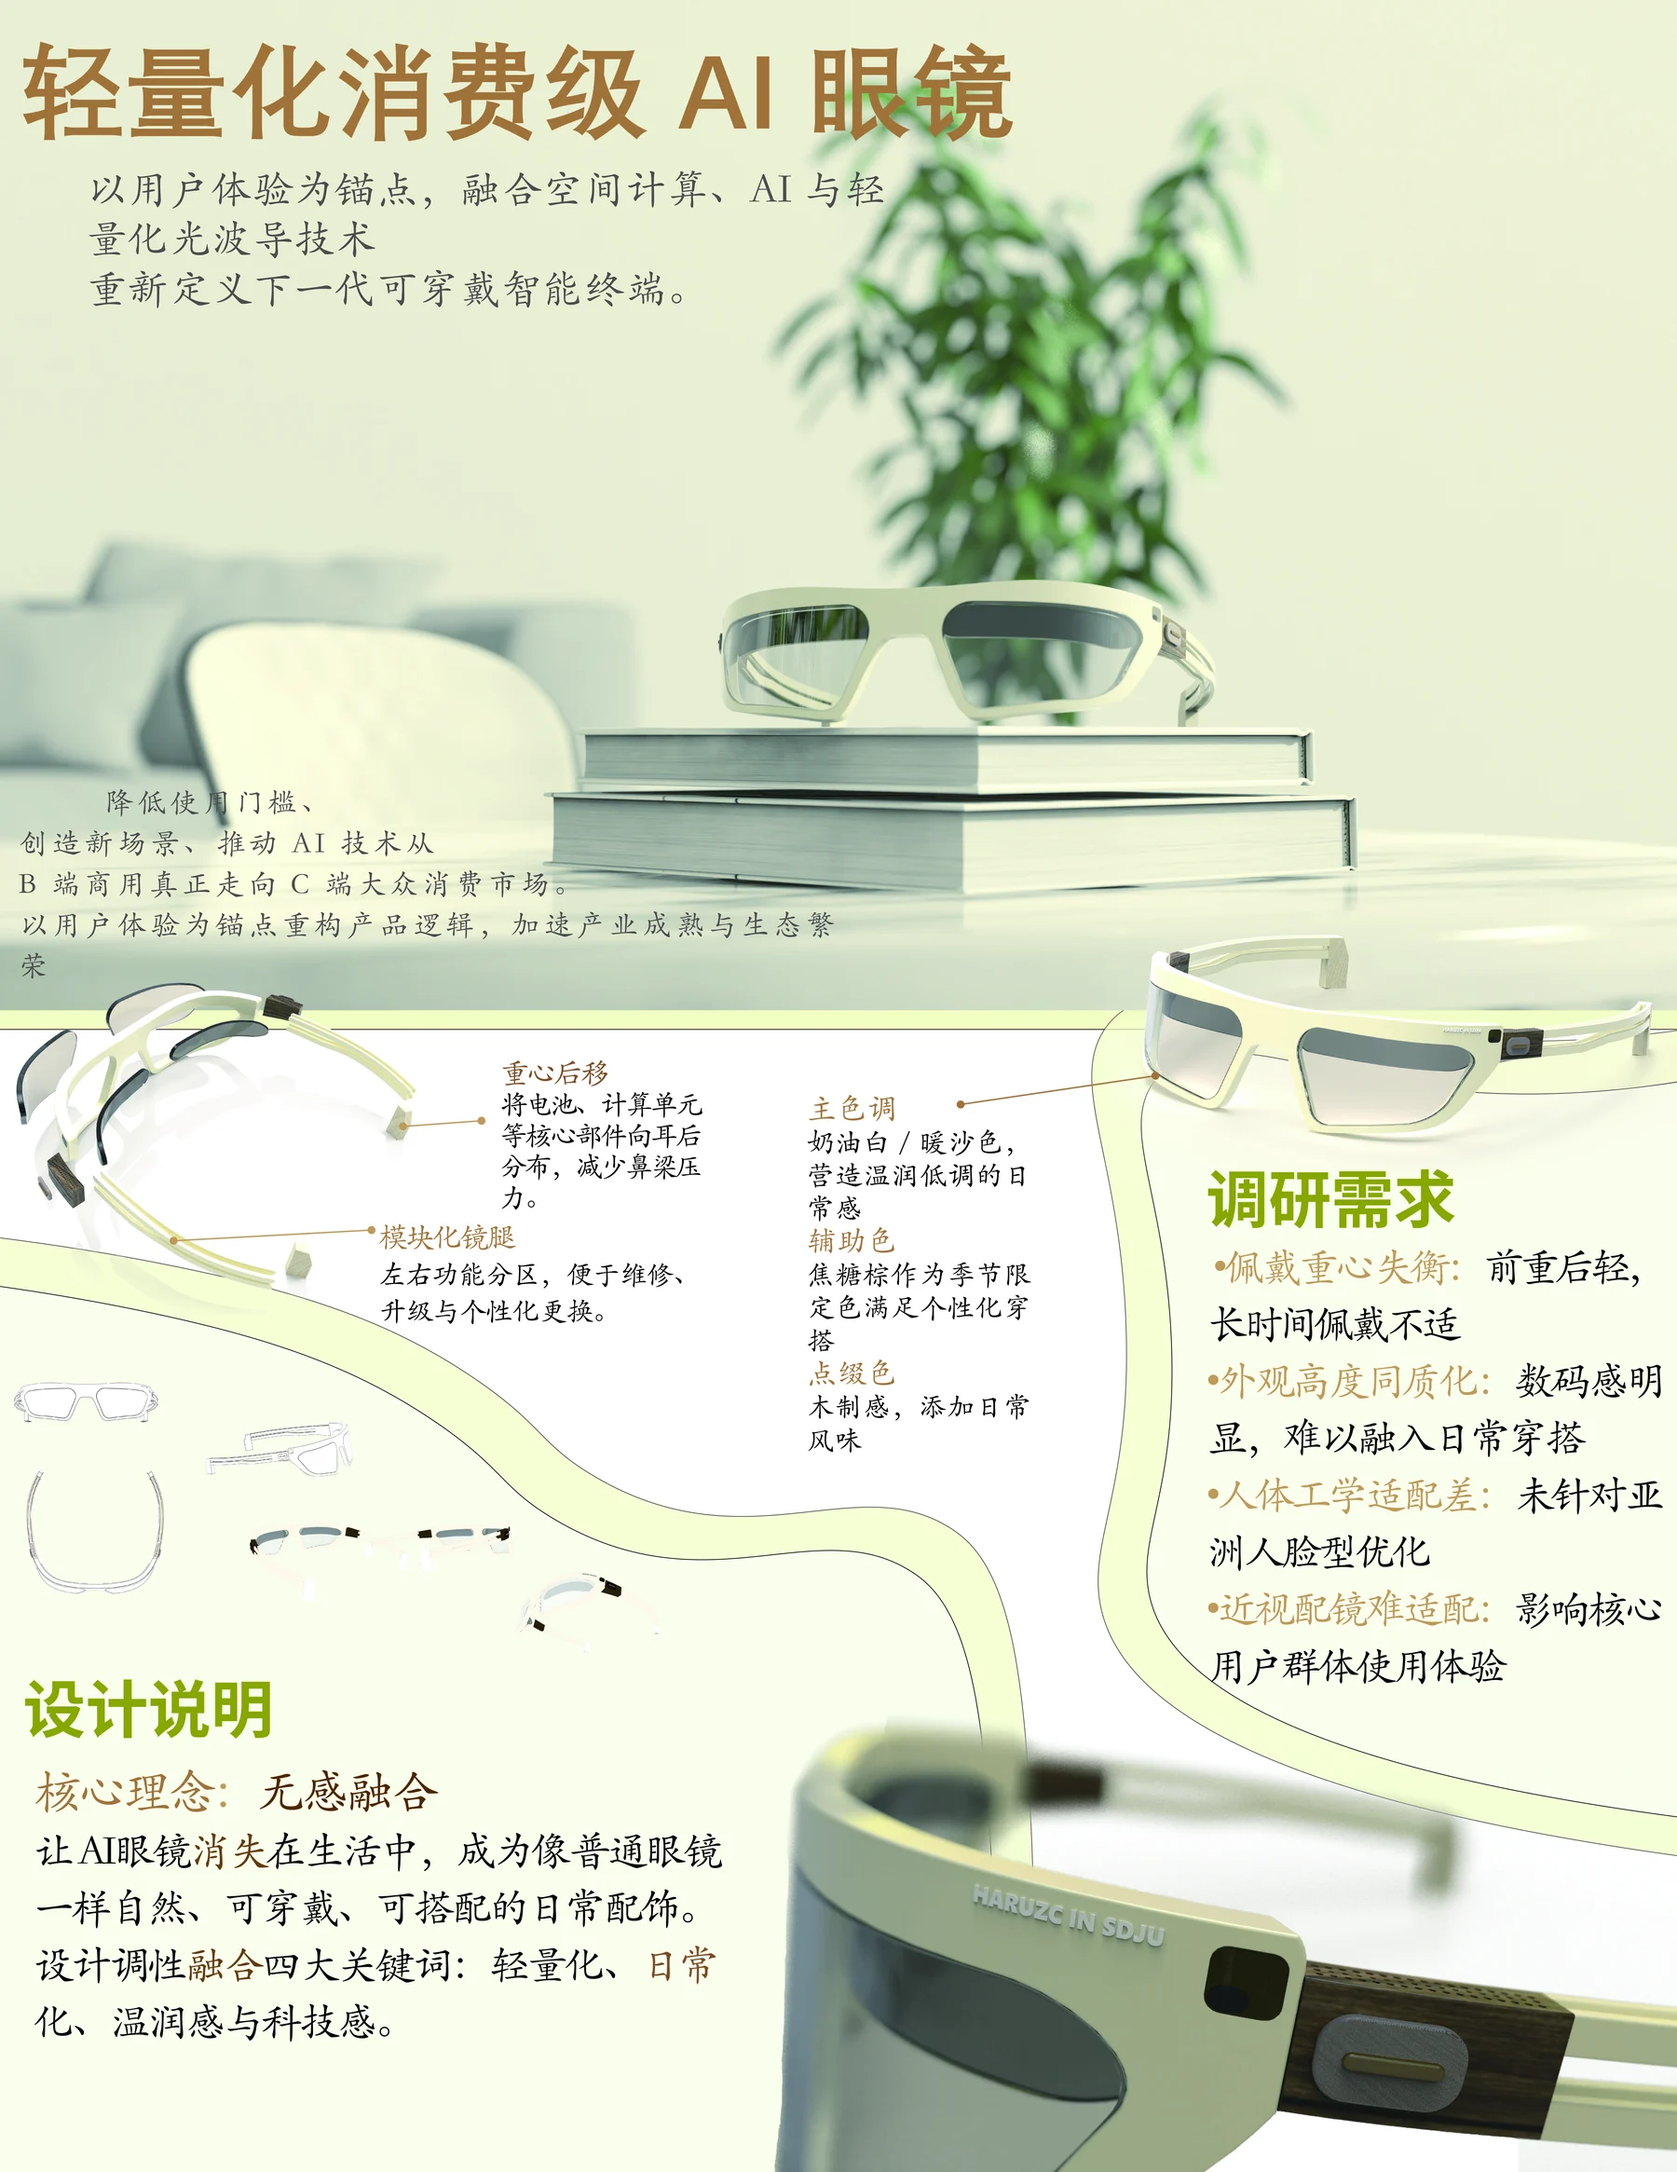
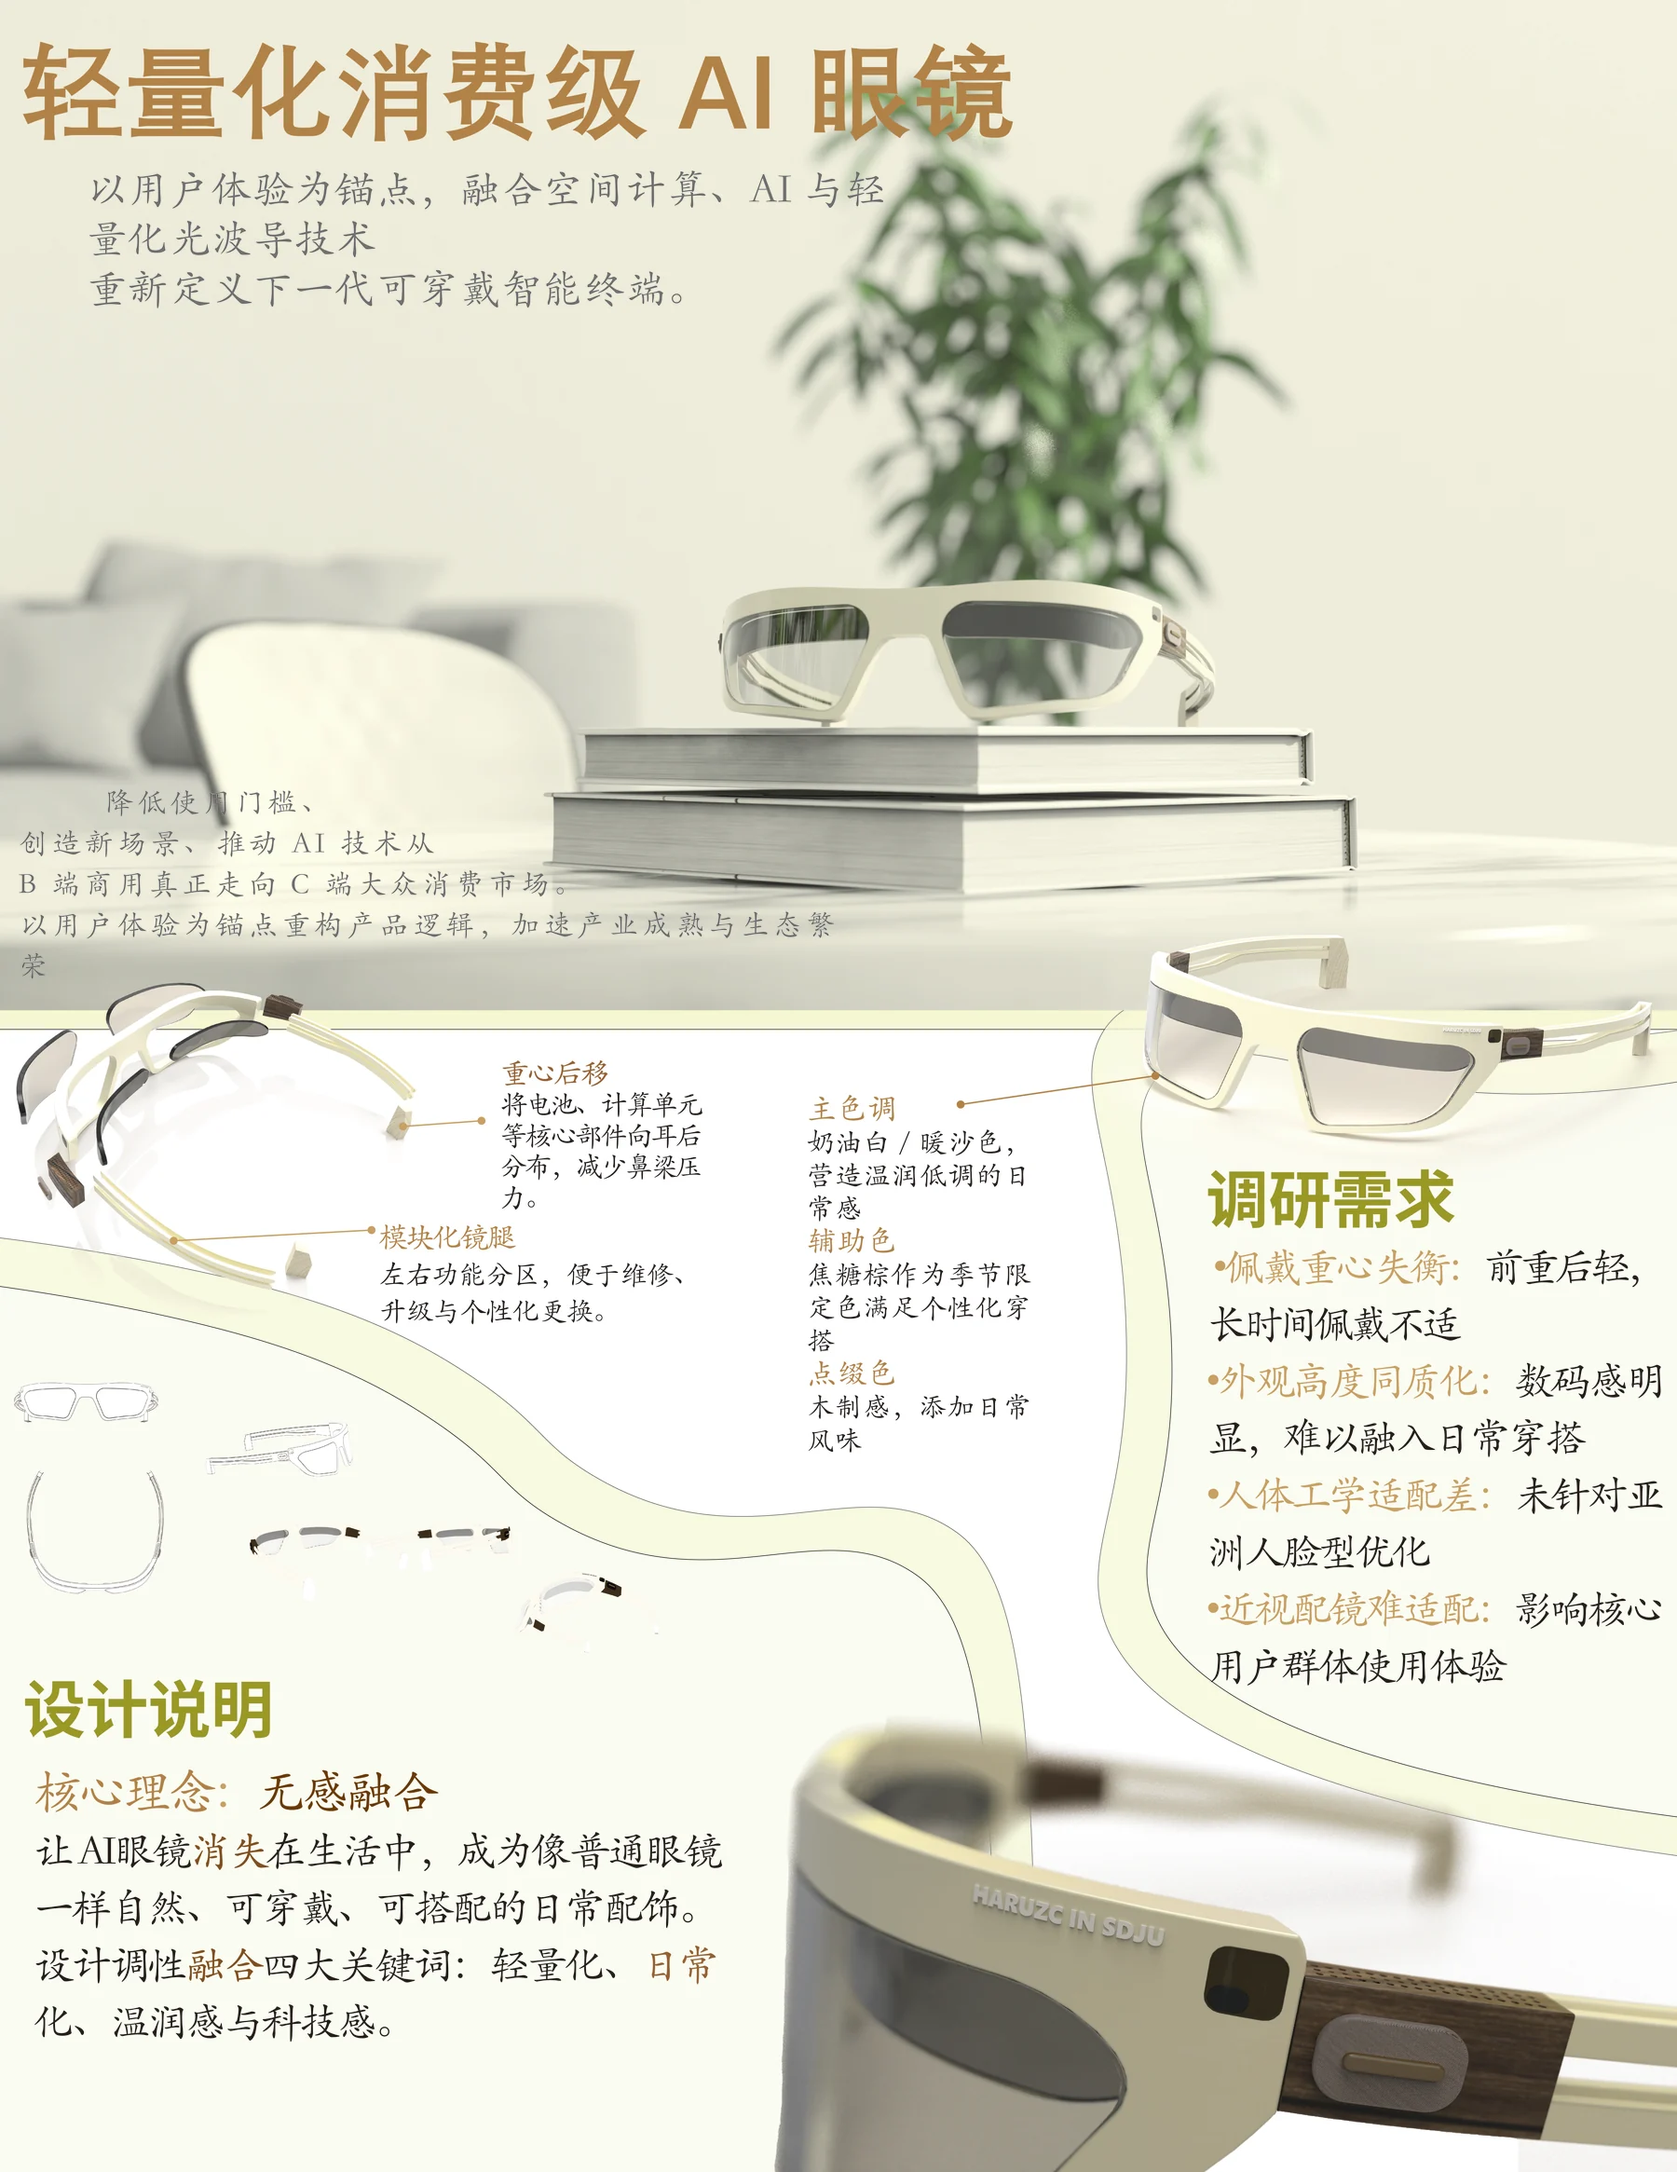
展板按 ICC 转 sRGB 修正发绿；场景区去掉重复场景图；关于文案与技能同步最新简历

diff --git a/index.html b/index.html
@@ -211,10 +211,7 @@
           <figure class="fg sp-8 r-16x9">
             <img src="assets/img/proj-run-1600.webp" alt="智能眼镜运动场景" loading="lazy" decoding="async">
           </figure>
-          <figure class="fg sp-7 r-16x9">
-            <img src="assets/img/proj-scene-1600.webp" alt="智能眼镜静物场景：书本与植物" loading="lazy" decoding="async">
-          </figure>
-          <figure class="fg sp-5 r-4x3">
+          <figure class="fg sp-8 r-4x3 is-center">
             <img src="assets/img/proj-table-1600.webp" alt="智能眼镜咖啡桌场景" loading="lazy" decoding="async">
           </figure>
         </div>
@@ -297,7 +294,7 @@
       </div>
 
       <div class="about-copy">
-        <p class="about-lede">我是雷啟春，上海电机学院工业设计专业大二在读，方向是产品建模与渲染。</p>
+        <p class="about-lede">我是雷啟春，上海电机学院工业设计专业大二在读，目标是成为一名工业设计师。</p>
 
         <div class="about-block">
           <h4>教育</h4>
@@ -325,7 +322,8 @@
 
       <dl class="skills">
         <div><dt>熟练</dt><dd>Rhino · KeyShot · Photoshop · Illustrator</dd></div>
-        <div><dt>基本掌握</dt><dd>SolidWorks · Figma · Blender · Codex</dd></div>
+        <div><dt>基本掌握</dt><dd>SolidWorks · Blender · Office · Codex</dd></div>
+        <div><dt>了解</dt><dd>Figma · Vibecoding</dd></div>
         <div><dt>求职方向</dt><dd>工业设计 / 产品设计（实习）</dd></div>
         <div><dt>城市</dt><dd>上海</dd></div>
       </dl>

diff --git a/assets/css/style.css b/assets/css/style.css
@@ -437,6 +437,7 @@ ul, ol { margin: 0; padding: 0; list-style: none; }
 .sp-7 { grid-column: span 7; }
 .sp-8 { grid-column: span 8; }
 .sp-12 { grid-column: span 12; }
+.is-center { grid-column: 3 / span 8; }
 
 /* 展板旁的文字栏 */
 .stage-aside {
@@ -913,6 +914,8 @@ body.lb-open { overflow: hidden; }
   .sec-head { flex-direction: column; align-items: flex-start; gap: 6px; }
   .sec-note { text-align: left; }
   .sp-4, .sp-5, .sp-6, .sp-7, .sp-8, .sp-12 { grid-column: span 12; }
+  .is-center { grid-column: span 12; }
+.is-center { grid-column: 3 / span 8; }
   .r-wide { aspect-ratio: 3 / 1; }
   .pairs { grid-template-columns: minmax(0, 1fr); }
   .clay-grid { grid-template-columns: repeat(3, minmax(0, 1fr)); }

diff --git a/工具/build_assets.py b/工具/build_assets.py
@@ -15,13 +15,27 @@
 用法：python build_assets.py
 """
 import glob
+import io
 import json
 import os
 import re
 
-from PIL import Image
+from PIL import Image, ImageCms
 
 Image.MAX_IMAGE_PIXELS = None  # 展板原图是 9933x12862
+
+
+def load_cmyk_as_srgb(path, target_w=1800):
+    """展板是 CMYK + Japan Color 2001 Coated，必须按 ICC 转 sRGB，否则会发绿。"""
+    im = Image.open(path)
+    icc = im.info.get("icc_profile")
+    if im.width > target_w:
+        im = im.resize((target_w, int(round(target_w * im.height / im.width))), Image.LANCZOS)
+    if icc:
+        src = ImageCms.ImageCmsProfile(io.BytesIO(icc))
+        dst = ImageCms.createProfile("sRGB")
+        return ImageCms.profileToProfile(im, src, dst, outputMode="RGB", renderingIntent=0)
+    return im.convert("RGB")
 
 HERE = os.path.dirname(os.path.abspath(__file__))
 SITE = os.path.dirname(HERE)
@@ -209,7 +223,7 @@ def main():
     board_path = os.path.join(ROOT, "产品展板.jpg")
     if os.path.exists(board_path):
         print("产品展板：")
-        save_pair(Image.open(board_path).convert("RGB"), "proj-board", max_w=1800)
+        save_pair(load_cmyk_as_srgb(board_path), "proj-board")
 
     with open(os.path.join(SITE, "assets", "img-meta.json"), "w", encoding="utf-8") as f:
         json.dump(meta, f, ensure_ascii=False, indent=1)

diff --git a/README.md b/README.md
@@ -92,7 +92,7 @@ git push -u origin main
 ### 产品展板
 
 项目最后一节「05 展板」用的是 `assets/img/proj-board-1600.webp`，
-原图是根目录的 `产品展板.jpg`（9933×12862，CMYK），脚本会自动转 RGB 并缩放。
+原图是根目录的 `产品展板.jpg`（9933×12862，CMYK + Japan Color 2001 Coated 配置文件），脚本会按内嵌 ICC 转成 sRGB 再缩放；直接 `convert("RGB")` 会发绿。
 换新版面时替换这张 jpg 再跑一次 `build_assets.py` 即可。
 
 ### 加图 / 换图
